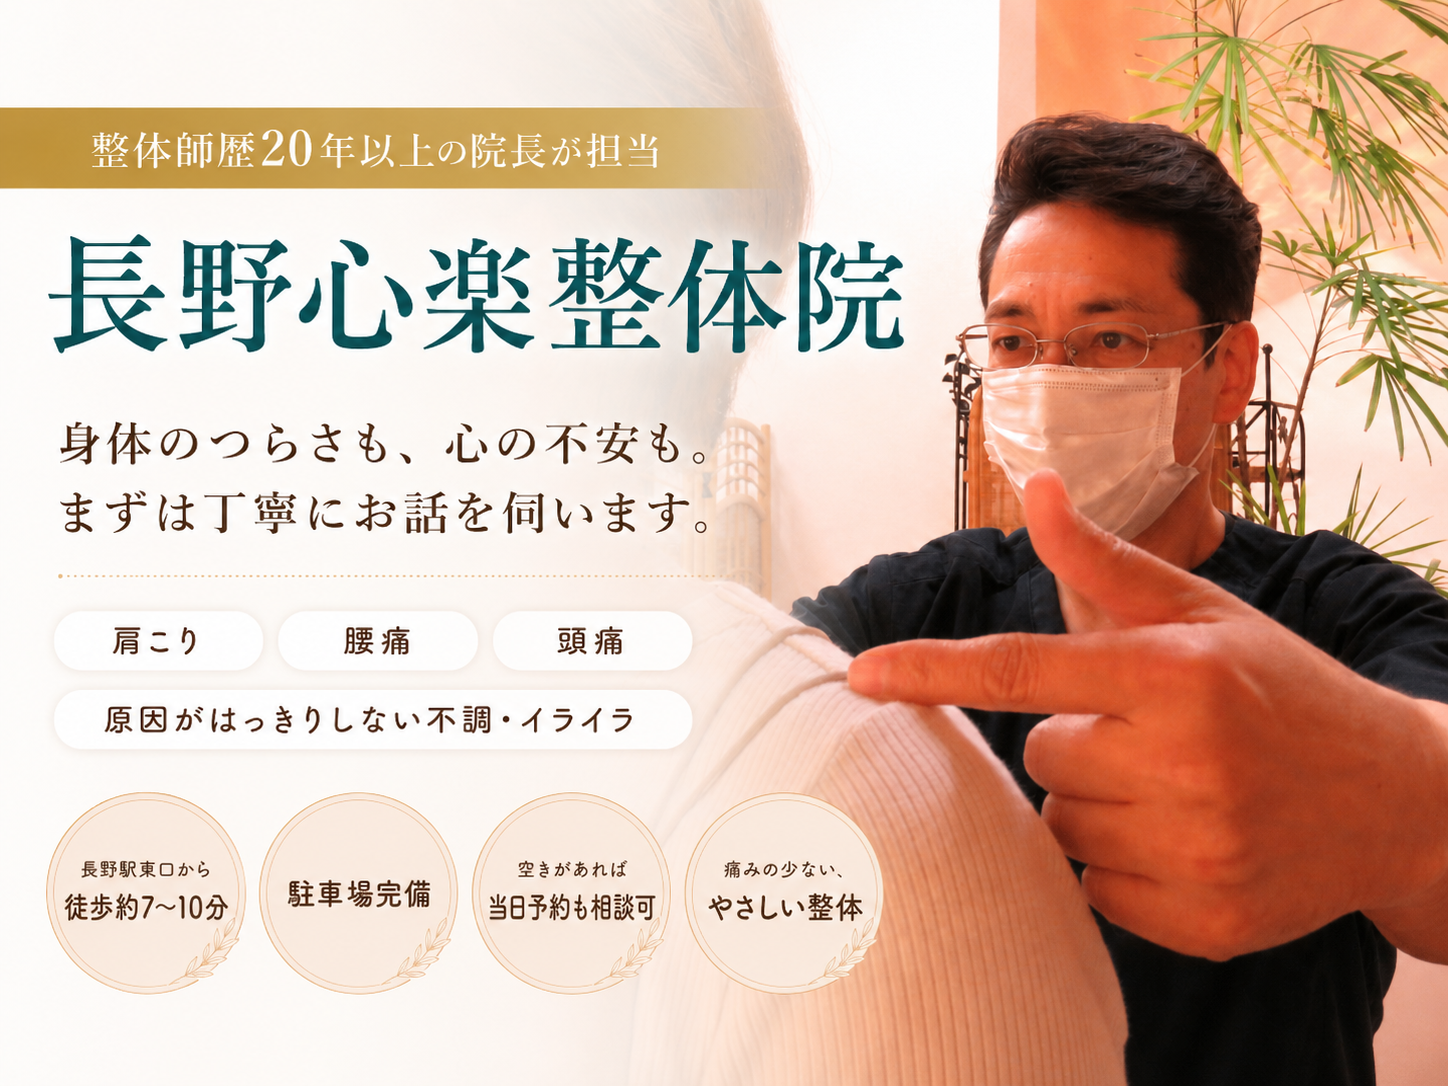
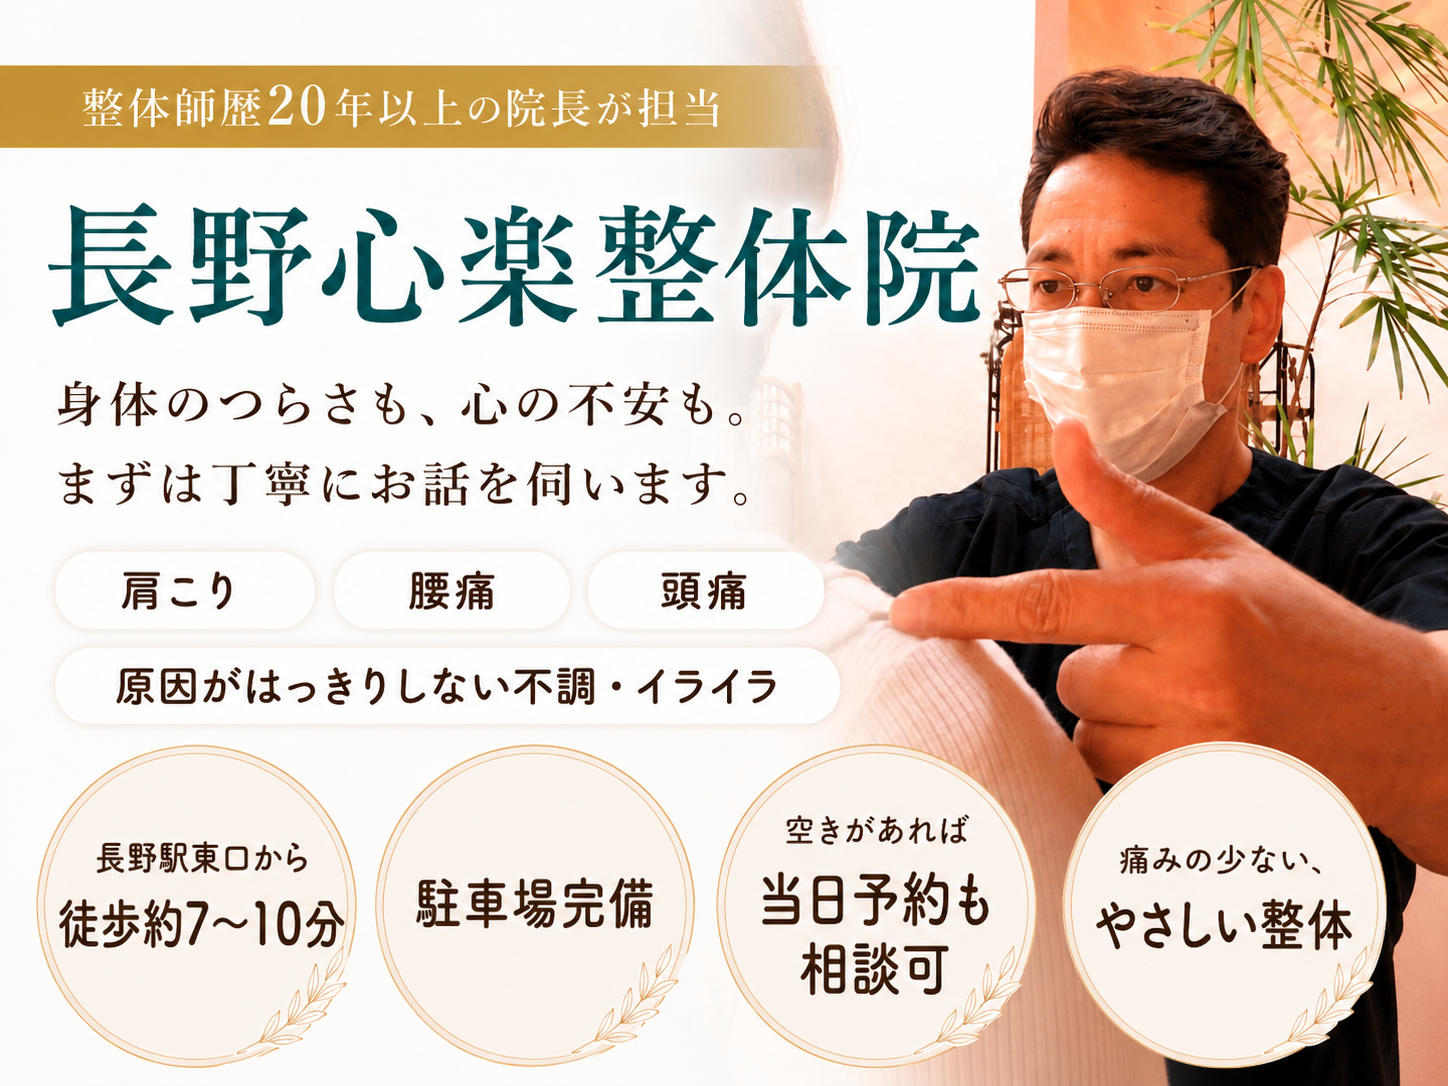
Add files via upload

diff --git a/index.html b/index.html
@@ -5,7 +5,7 @@
   <meta name="viewport" content="width=device-width, initial-scale=1">
   <title>長野市中御所の整体｜長野心楽整体院</title>
   <meta name="description" content="長野市中御所の完全予約制整体院。施術前のカウンセリングを大切にし、身体の状態や感じ方を確認しながら、院長が一人で対応します。料金・営業時間・アクセスを確認し、ホットペッパービューティーから空席確認・予約ができます。">
-  <link rel="stylesheet" href="assets/css/site.css?v=20260621t">
+  <link rel="stylesheet" href="assets/css/site.css?v=20260622ba1">
   <meta name="robots" content="noindex, nofollow">
 </head>
 <body>
@@ -130,12 +130,14 @@
     </section>
 
     <section class="section reviews" aria-labelledby="reviews-title">
-      <div class="container split-heading">
-        <div>
-          <h2 id="reviews-title">施術前後の変化とご感想</h2>
+      <div class="container review-showcase">
+        <div class="section-heading section-heading-tight">
+          <h2 id="reviews-title">施術前後の様子</h2>
         </div>
-        <div>
-          <p>ホットペッパービューティーのブログで、施術前後の様子や、来院された方のご感想をご覧いただけます。</p>
+        <figure class="review-photo">
+          <img src="assets/images/before-after-posture.png" width="1448" height="1086" loading="lazy" alt="施術前後の姿勢の変化を並べて示した参考画像">
+        </figure>
+        <div class="review-action">
           <a class="button button-outline" href="https://beauty.hotpepper.jp/kr/slnH000488966/blog/" target="_blank" rel="noopener noreferrer">施術前後の様子を見る</a>
           <p class="microcopy">外部サイトへ移動します。感じ方や変化には個人差があります。</p>
         </div>

diff --git a/assets/css/site.css b/assets/css/site.css
@@ -76,6 +76,8 @@ h3 { font-size: 20px; }
 .hero-lead { margin: 0; color: #374039; font-size: 17px; }
 .page-title { padding: 58px 0 52px; background: var(--paper); }
 .page-title p:last-child { margin: 0; color: var(--muted); font-size: 17px; }
+.page-title-photo { margin: 26px 0 0; overflow: hidden; border-radius: 16px; background: var(--white); box-shadow: var(--shadow); }
+.page-title-photo img { width: 100%; aspect-ratio: 4 / 3; object-fit: cover; object-position: center; }
 .profile-hero { padding-bottom: 62px; }
 .profile-hero-grid { display: grid; gap: 32px; align-items: center; }
 .profile-main-title { margin-bottom: 20px; font-size: clamp(42px, 12vw, 58px); }
@@ -254,6 +256,15 @@ blockquote { margin: 28px 0; padding: 20px 0 20px 20px; border-left: 3px solid v
 .faq-list summary::after { content: "+"; position: absolute; right: 8px; top: 16px; color: var(--clinic-blue); font-size: 25px; font-weight: 400; }
 .faq-list details[open] summary::after { content: "−"; }
 .faq-list details p { margin: -4px 0 22px; color: var(--muted); }
+
+.review-showcase { display: grid; gap: 24px; }
+.review-showcase .section-heading { max-width: 720px; margin-bottom: 0; }
+.review-photo { width: 100%; margin: 0; overflow: hidden; border-radius: 16px; background: var(--white); box-shadow: var(--shadow); }
+.review-photo img { width: 100%; aspect-ratio: 4 / 3; object-fit: cover; object-position: center; }
+.review-action { max-width: 720px; display: grid; gap: 12px; }
+.review-action p { margin: 0; color: var(--muted); }
+.review-action .button { justify-self: start; }
+.review-action .microcopy { margin-top: 0; }
 
 .final-cta { padding: 76px 0 90px; background: var(--clinic-blue-dark); color: white; text-align: center; }
 .final-cta .eyebrow { color: #dce9f3; }

diff --git a/access.html b/access.html
@@ -5,7 +5,7 @@
   <meta name="viewport" content="width=device-width, initial-scale=1">
   <title>料金・アクセス｜長野心楽整体院</title>
   <meta name="description" content="長野心楽整体院の料金、営業時間、定休日、アクセス、駐車場をまとめています。長野駅東口から徒歩約7〜10分、駐車場4台。最新料金と空席はホットペッパービューティーで確認できます。">
-  <link rel="stylesheet" href="assets/css/site.css?v=20260621t">
+  <link rel="stylesheet" href="assets/css/site.css?v=20260622ba1">
   <meta name="robots" content="noindex, nofollow">
 </head>
 <body>

diff --git a/policy.html b/policy.html
@@ -5,7 +5,7 @@
   <meta name="viewport" content="width=device-width, initial-scale=1">
   <title>院長挨拶｜長野心楽整体院</title>
   <meta name="description" content="長野心楽整体院の院長、島田俊明の挨拶ページです。整体師として20年以上、長野市で一人ひとりのお身体と向き合ってきた想いや、施術で大切にしている考え方をまとめています。">
-  <link rel="stylesheet" href="assets/css/site.css?v=20260621t">
+  <link rel="stylesheet" href="assets/css/site.css?v=20260622ba1">
   <meta name="robots" content="noindex, nofollow">
 </head>
 <body>